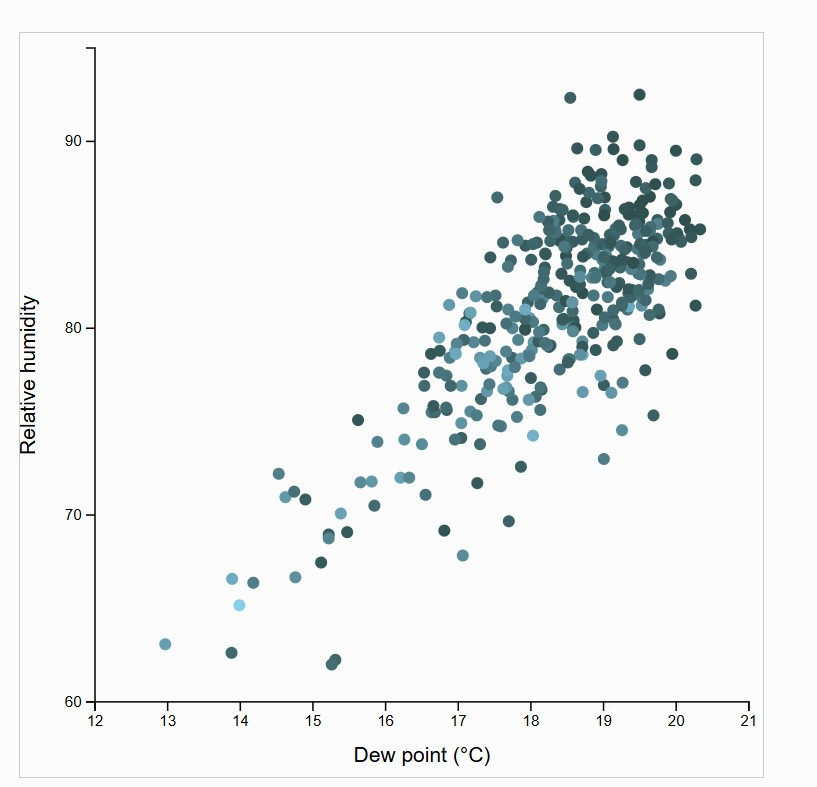
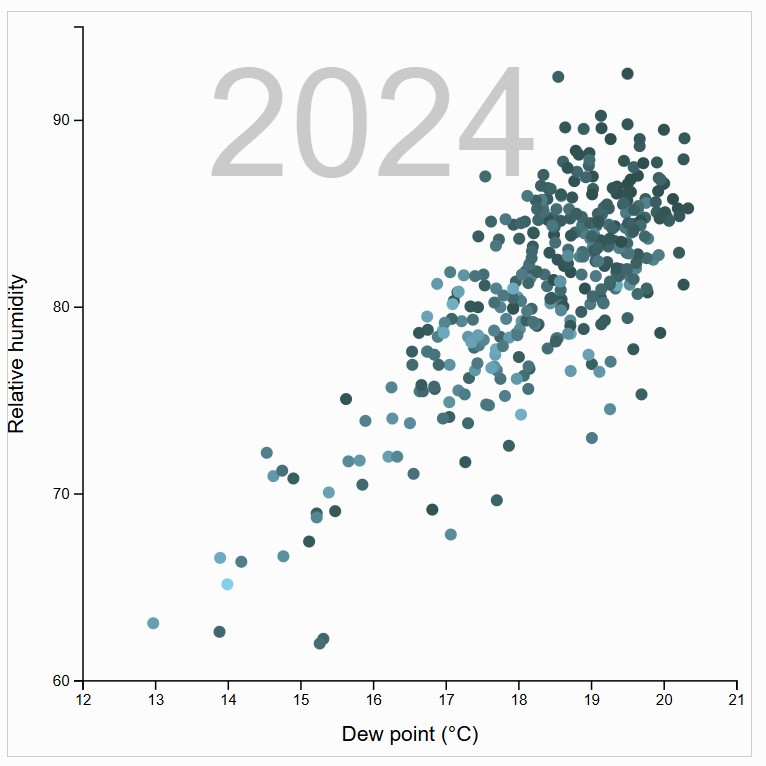
Final touches on scatter

diff --git a/scripts/kiziri-scatter-2024.js b/scripts/kiziri-scatter-2024.js
@@ -146,6 +146,17 @@ async function drawScatter2024() {
       .style("transform", "rotate(-90deg)")
       .style("text-anchor", "middle")
 
+// 6.2 Labelling axes and other text
+
+
+bounds
+.append("text")
+.text("2024")
+.attr("x", dimensions.width/6)
+.attr("y", dimensions.height/5)
+.style("opacity", 0.2)
+.style("font-size","100px");
+
 
 
 
